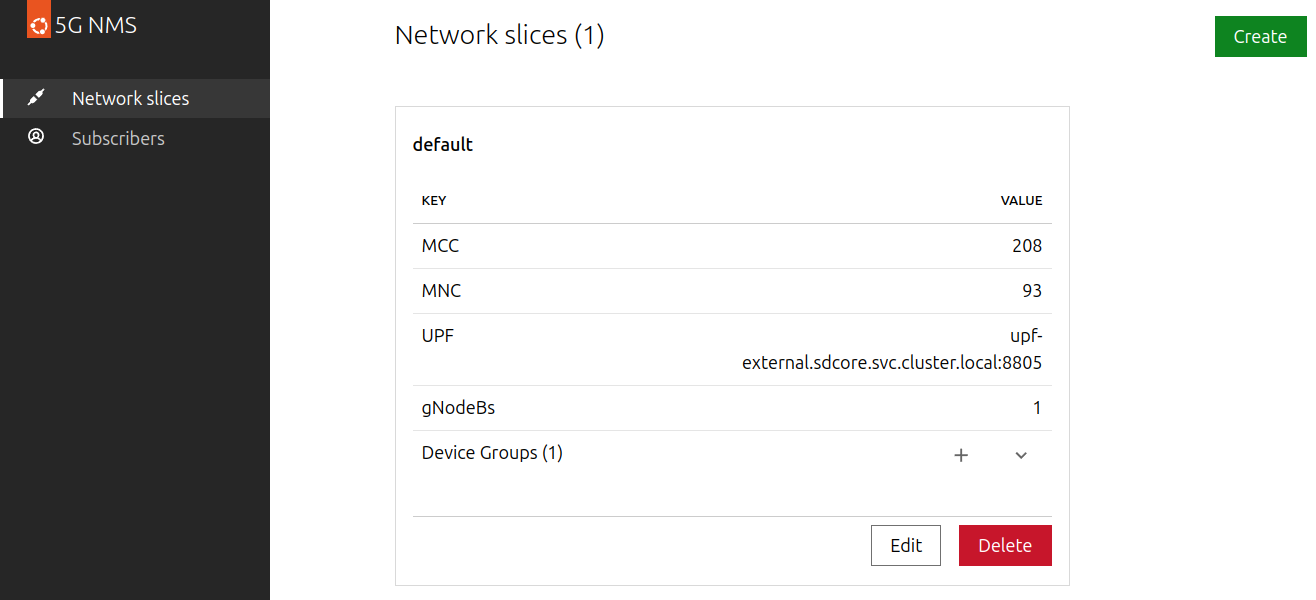
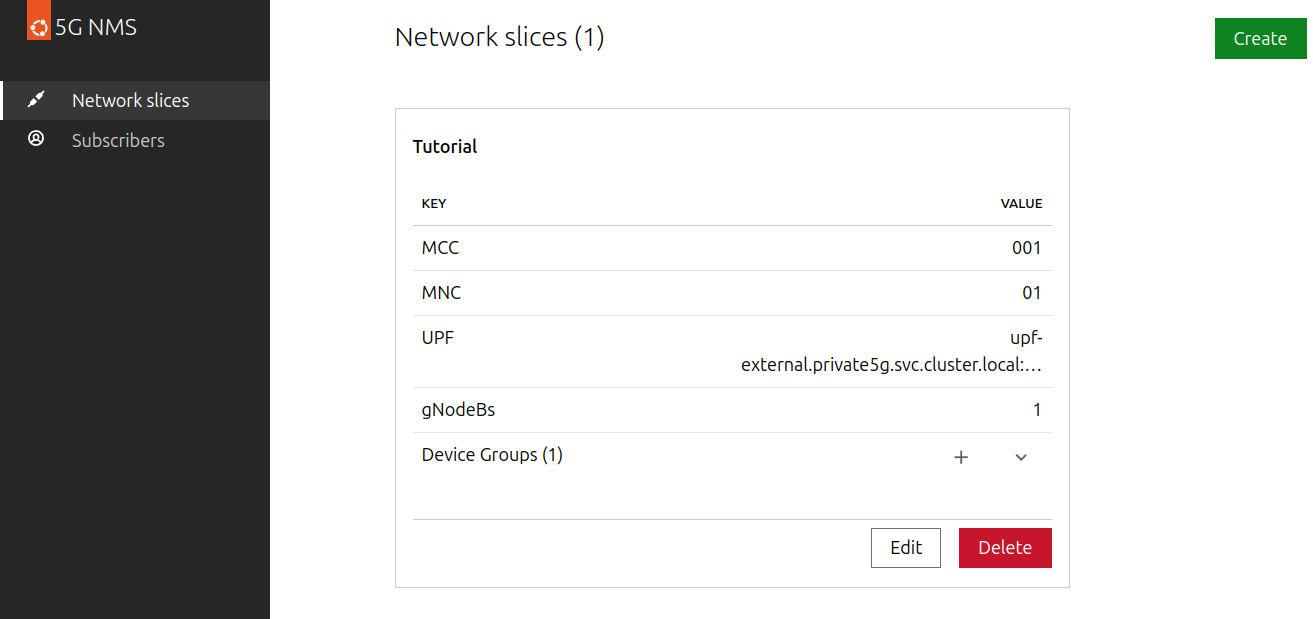
chore: Updates the documentation (PLMN, Traefik bug) (#31)

diff --git a/docs/tutorials/getting_started.md b/docs/tutorials/getting_started.md
@@ -93,7 +93,7 @@ terraform {
   required_providers {
     juju = {
       source  = "juju/juju"
-      version = ">= 0.11.0"
+      version = ">= 0.12.0"
     }
   }
 }
@@ -194,57 +194,65 @@ juju switch sdcore
 watch -n 1 -c juju status --color --relations
 ```
 
-The deployment is ready when all the charms are in the `Active/Idle` state. It is normal
-for `grafana-agent` to remain in waiting state. Example:
+The deployment is ready when all the charms are in the `Active/Idle` state.<br>
+It is normal for `grafana-agent` to remain in waiting state.<br>
+It is also expected that `traefik` goes to the error state (related Traefik [bug](https://github.com/canonical/traefik-k8s-operator/issues/361)).
+
+Example:
 
 ```console
 ubuntu@host:~$ juju status
-Model    Controller          Cloud/Region        Version  SLA          Timestamp
-sdcore   microk8s-localhost  microk8s/localhost  3.4.0    unsupported  13:40:12+01:00
+Model      Controller                  Cloud/Region                Version  SLA          Timestamp
+sdcore  microk8s-localhost  microk8s-classic/localhost  3.4.5    unsupported  08:08:50Z
 
-App                       Version  Status   Scale  Charm                         Channel             Rev  Address          Exposed  Message
-amf                                active       1  sdcore-amf-k8s                1.5/edge            57   10.152.183.208   no
-ausf                               active       1  sdcore-ausf-k8s               1.5/edge            40   10.152.183.237   no
-gnbsim                             active       1  sdcore-gnbsim-k8s             1.5/edge            43   10.152.183.167   no
-grafana-agent             0.32.1   waiting      1  grafana-agent-k8s             latest/stable       44   10.152.183.245   no       installing agent
-mongodb                            active       1  mongodb-k8s                   6/beta              36   10.152.183.156   no       Primary
-nms                                active       1  sdcore-nms-k8s                1.5/edge            26   10.152.183.121   no
-nrf                                active       1  sdcore-nrf-k8s                1.5/edge            62   10.152.183.123   no
-nssf                               active       1  sdcore-nssf-k8s               1.5/edge            37   10.152.183.165   no
-pcf                                active       1  sdcore-pcf-k8s                1.5/edge            32   10.152.183.205   no
-router                             active       1  sdcore-router-k8s             1.5/edge            33   10.152.183.49    no
-self-signed-certificates           active       1  self-signed-certificates      1.5/edge            33   10.152.183.153   no
-smf                                active       1  sdcore-smf-k8s                1.5/edge            37   10.152.183.147   no
-traefik                   2.10.4   active       1  traefik-k8s                   latest/stable      148   10.0.0.4         no
-udm                                active       1  sdcore-udm-k8s                1.5/edge            35   10.152.183.168   no
-udr                                active       1  sdcore-udr-k8s                1.5/edge            31   10.152.183.96    no
-upf                                active       1  sdcore-upf-k8s                1.5/edge            64   10.152.183.126   no
+App                       Version  Status   Scale  Charm                     Channel        Rev  Address         Exposed  Message
+amf                       1.4.4    active       1  sdcore-amf-k8s            1.5/edge       707  10.152.183.176  no       
+ausf                      1.4.2    active       1  sdcore-ausf-k8s           1.5/edge       520  10.152.183.65   no       
+grafana-agent             0.32.1   waiting      1  grafana-agent-k8s         latest/stable   45  10.152.183.221  no       installing agent
+mongodb                            active       1  mongodb-k8s               6/beta          38  10.152.183.92   no       Primary
+nms                       1.0.0    active       1  sdcore-nms-k8s            1.5/edge       580  10.152.183.141  no       
+nrf                       1.4.1    active       1  sdcore-nrf-k8s            1.5/edge       580  10.152.183.130  no       
+nssf                      1.4.1    active       1  sdcore-nssf-k8s           1.5/edge       462  10.152.183.62   no       
+pcf                       1.4.3    active       1  sdcore-pcf-k8s            1.5/edge       512  10.152.183.144  no       
+router                             active       1  sdcore-router-k8s         1.5/edge       341  10.152.183.218  no       
+self-signed-certificates           active       1  self-signed-certificates  latest/stable  155  10.152.183.33   no       
+smf                       1.5.2    active       1  sdcore-smf-k8s            1.5/edge       590  10.152.183.64   no       
+traefik                   v2.11.0  waiting      1  traefik-k8s               latest/stable  194  10.152.183.198  no       installing agent
+udm                       1.4.3    active       1  sdcore-udm-k8s            1.5/edge       489  10.152.183.31   no       
+udr                       1.4.1    active       1  sdcore-udr-k8s            1.5/edge       486  10.152.183.82   no       
+upf                       1.4.0    active       1  sdcore-upf-k8s            1.5/edge       591  10.152.183.164  no       
 
 Unit                         Workload  Agent  Address      Ports  Message
-amf/0*                       active    idle   10.1.182.23
-ausf/0*                      active    idle   10.1.182.18
-gnbsim/0*                    active    idle   10.1.182.50
-grafana-agent/0*             blocked   idle   10.1.182.51         logging-consumer: off, grafana-cloud-config: off
-mongodb/0*                   active    idle   10.1.182.35         Primary
-nms/0*                       active    idle   10.1.182.2
-nrf/0*                       active    idle   10.1.182.53
-nssf/0*                      active    idle   10.1.182.48
-pcf/0*                       active    idle   10.1.182.46
-router/0*                    active    idle   10.1.182.57
-self-signed-certificates/0*  active    idle   10.1.182.56
-smf/0*                       active    idle   10.1.182.27
-traefik/0*                   active    idle   10.1.182.40
-udm/0*                       active    idle   10.1.182.52
-udr/0*                       active    idle   10.1.182.39
-upf/0*                       active    idle   10.1.182.60
+amf/0*                       active    idle   10.1.10.181         
+ausf/0*                      active    idle   10.1.10.186         
+grafana-agent/0*             blocked   idle   10.1.10.133         grafana-cloud-config: off, logging-consumer: off
+mongodb/0*                   active    idle   10.1.10.155         Primary
+nms/0*                       active    idle   10.1.10.174         
+nrf/0*                       active    idle   10.1.10.151         
+nssf/0*                      active    idle   10.1.10.136         
+pcf/0*                       active    idle   10.1.10.146         
+router/0*                    active    idle   10.1.10.145         
+self-signed-certificates/0*  active    idle   10.1.10.141         
+smf/0*                       active    idle   10.1.10.154         
+traefik/0*                   error     idle   10.1.10.160         hook failed: "ingress-relation-changed"
+udm/0*                       active    idle   10.1.10.187         
+udr/0*                       active    idle   10.1.10.176         
+upf/0*                       active    idle   10.1.10.169
 ```
 
 ## 6. Configure the ingress
 
-Get the IP address of the Traefik application:
+Get the external IP address of Traefik's `traefik-lb` LoadBalancer service:
 
 ```console
-juju status traefik
+microk8s.kubectl -n sdcore get svc | grep "traefik-lb"
+```
+
+The output should look similar to below:
+
+```console
+ubuntu@host:~/terraform$ microk8s.kubectl -n private5g get svc | grep "traefik-lb"
+traefik-lb                           LoadBalancer   10.152.183.142   10.0.0.4      80:32435/TCP,443:32483/TCP    11m
 ```
 
 In this tutorial, the IP is `10.0.0.4`. Please note it, as we will need it in the next step.
@@ -272,6 +280,14 @@ Apply new configuration:
 terraform apply -auto-approve
 ```
 
+Resolve Traefik error in Juju:
+
+```console
+juju resolve traefik/0
+```
+
+## 7. Configure the 5G core network through the Network Management System
+
 Retrieve the NMS address:
 
 ```console
@@ -281,14 +297,11 @@ juju run traefik/0 show-proxied-endpoints
 The output should be `http://sdcore-nms.10.0.0.4.nip.io/`. Navigate to this address in your
 browser.
 
-
-## 7. Configure the 5G core network through the Network Management System
-
 In the Network Management System (NMS), create a network slice with the following attributes:
 
 - Name: `default`
-- MCC: `208`
-- MNC: `93`
+- MCC: `001`
+- MNC: `01`
 - UPF: `upf-external.sdcore.svc.cluster.local:8805`
 - gNodeB: `sdcore-gnbsim-gnbsim`
 
@@ -300,7 +313,7 @@ You should see the following network slice created:
 ```
 
 Create a subscriber with the following attributes:
-- IMSI: `208930100007487`
+- IMSI: `001010100007487`
 - OPC: `981d464c7c52eb6e5036234984ad0bcf`
 - Key: `5122250214c33e723a5dd523fc145fc0`
 - Sequence Number: `16f3b3f70fc2`

diff --git a/docs/tutorials/mastering.md b/docs/tutorials/mastering.md
@@ -425,7 +425,7 @@ This will show output similar to the following:
 
 ```console
 control-plane    amf-external  LoadBalancer  10.152.183.179  10.201.0.52   38412:30408/SCTP
-control-plane    traefik       LoadBalancer  10.152.183.28   10.201.0.53   80:32349/TCP,443:31925/TCP
+control-plane    traefik-lb    LoadBalancer  10.152.183.28   10.201.0.53   80:32349/TCP,443:31925/TCP
 ```
 
 Note both IPs - in this case `10.201.0.52` for the AMF and `10.201.0.53` for Traefik.
@@ -729,8 +729,8 @@ Navigate to this address in your browser.
 In the Network Management System (NMS), create a network slice with the following attributes:
 
 - Name: `Tutorial`
-- MCC: `208`
-- MNC: `93`
+- MCC: `001`
+- MNC: `01`
 - UPF: `upf.mgmt:8805`
 - gNodeB: `gnbsim-gnbsim-gnbsim (tac:1)`
 
@@ -746,7 +746,7 @@ We will now add a subscriber with the IMSI that was provided to the gNB simulato
 Navigate to Subscribers and click on Create.
 Fill in the following:
 
-- IMSI: `208930100007487`
+- IMSI: `001010100007487`
 - OPC: `981d464c7c52eb6e5036234984ad0bcf`
 - Key: `5122250214c33e723a5dd523fc145fc0`
 - Sequence Number: `16f3b3f70fc2`
@@ -986,7 +986,7 @@ We can do the same for the user plane transport to see it starts on the RAN netw
 To follow the UE itself, we can filter by the IMSI.
 
 ```console
-juju debug-log | grep imsi-208930100007487
+juju debug-log | grep imsi-001010100007487
 ```
 
 ### Control Plane Logs
